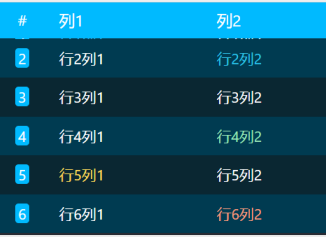
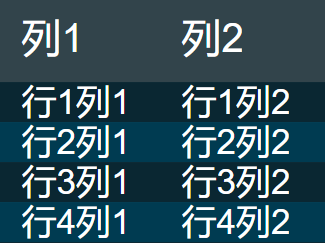
表格图片替换

diff --git a/src/views/partComponent/widget.js b/src/views/partComponent/widget.js
@@ -97,14 +97,14 @@ class Title extends Widget {
 
 class ScrollBoard extends Widget {
   static componentDescription = {
-    name: '轮播表类',
+    name: '表格类',
     parent: 'widget'
   }
 
   constructor(constructorData) {
     super(constructorData)
     this.setDragSize(constructorData, {
-      width: 960,
+      width: 250,
       height: 113
     })
   }

diff --git a/src/views/partComponent/components/scrollBoard/widget_class.js b/src/views/partComponent/components/scrollBoard/widget_class.js
@@ -18,7 +18,7 @@ class ScrollBoardChildOne extends ScrollBoard {
     this.setStyleFields(constructorData, {
       headerBGC: widgetFields.FieldColorPicker({
         label: '表头背景色',
-        formModel: '#00BAFF'
+        formModel: '#32444B'
       }),
       oddRowBGC: widgetFields.FieldColorPicker({
         label: '奇数行背景色',
